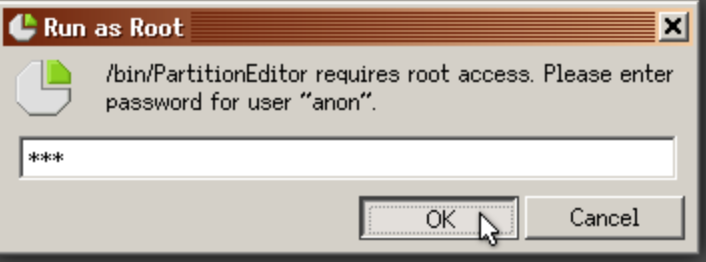
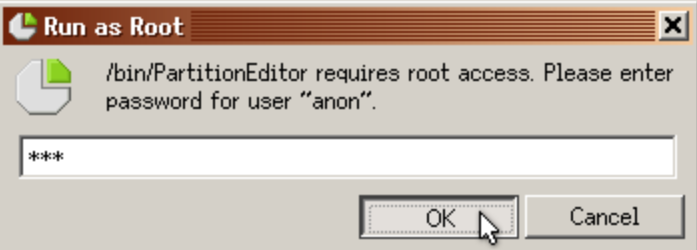
Fill the section about escalator

diff --git a/happy/6th/index.html b/happy/6th/index.html
@@ -108,13 +108,13 @@
 
 <section>
     <h2>Escalator to super-user permissions!</h2>
-    <img src="escalator.png" alt="A image showing the Escalator helper">
+    <img class="serenity-image" src="escalator.png" alt="A image showing the Escalator helper">
     <p>
         Previously, to run an application that required privileged permissions (like <code>Partition Editor</code>) you would have to launch them as root.
-        Now, a new program is available to allow normal users to perform these operations: <code>Escalator</code>.
+        Now, a new helper program is available to allow normal users to perform these operations: <code>Escalator</code>.
     </p>
     <p>
-        The program, after prompting you for your password, will open the desired application for you.
+        After prompting you for your password, the helper will open the desired application!
     </p>
 </section>
 

diff --git a/happy/6th/style.css b/happy/6th/style.css
@@ -64,6 +64,10 @@ section img {
     clear: both;
 }
 
+.serenity-image {
+    border-radius: 0;
+}
+
 code {
     padding: 0.2em 0.4em;
     margin: 0;
